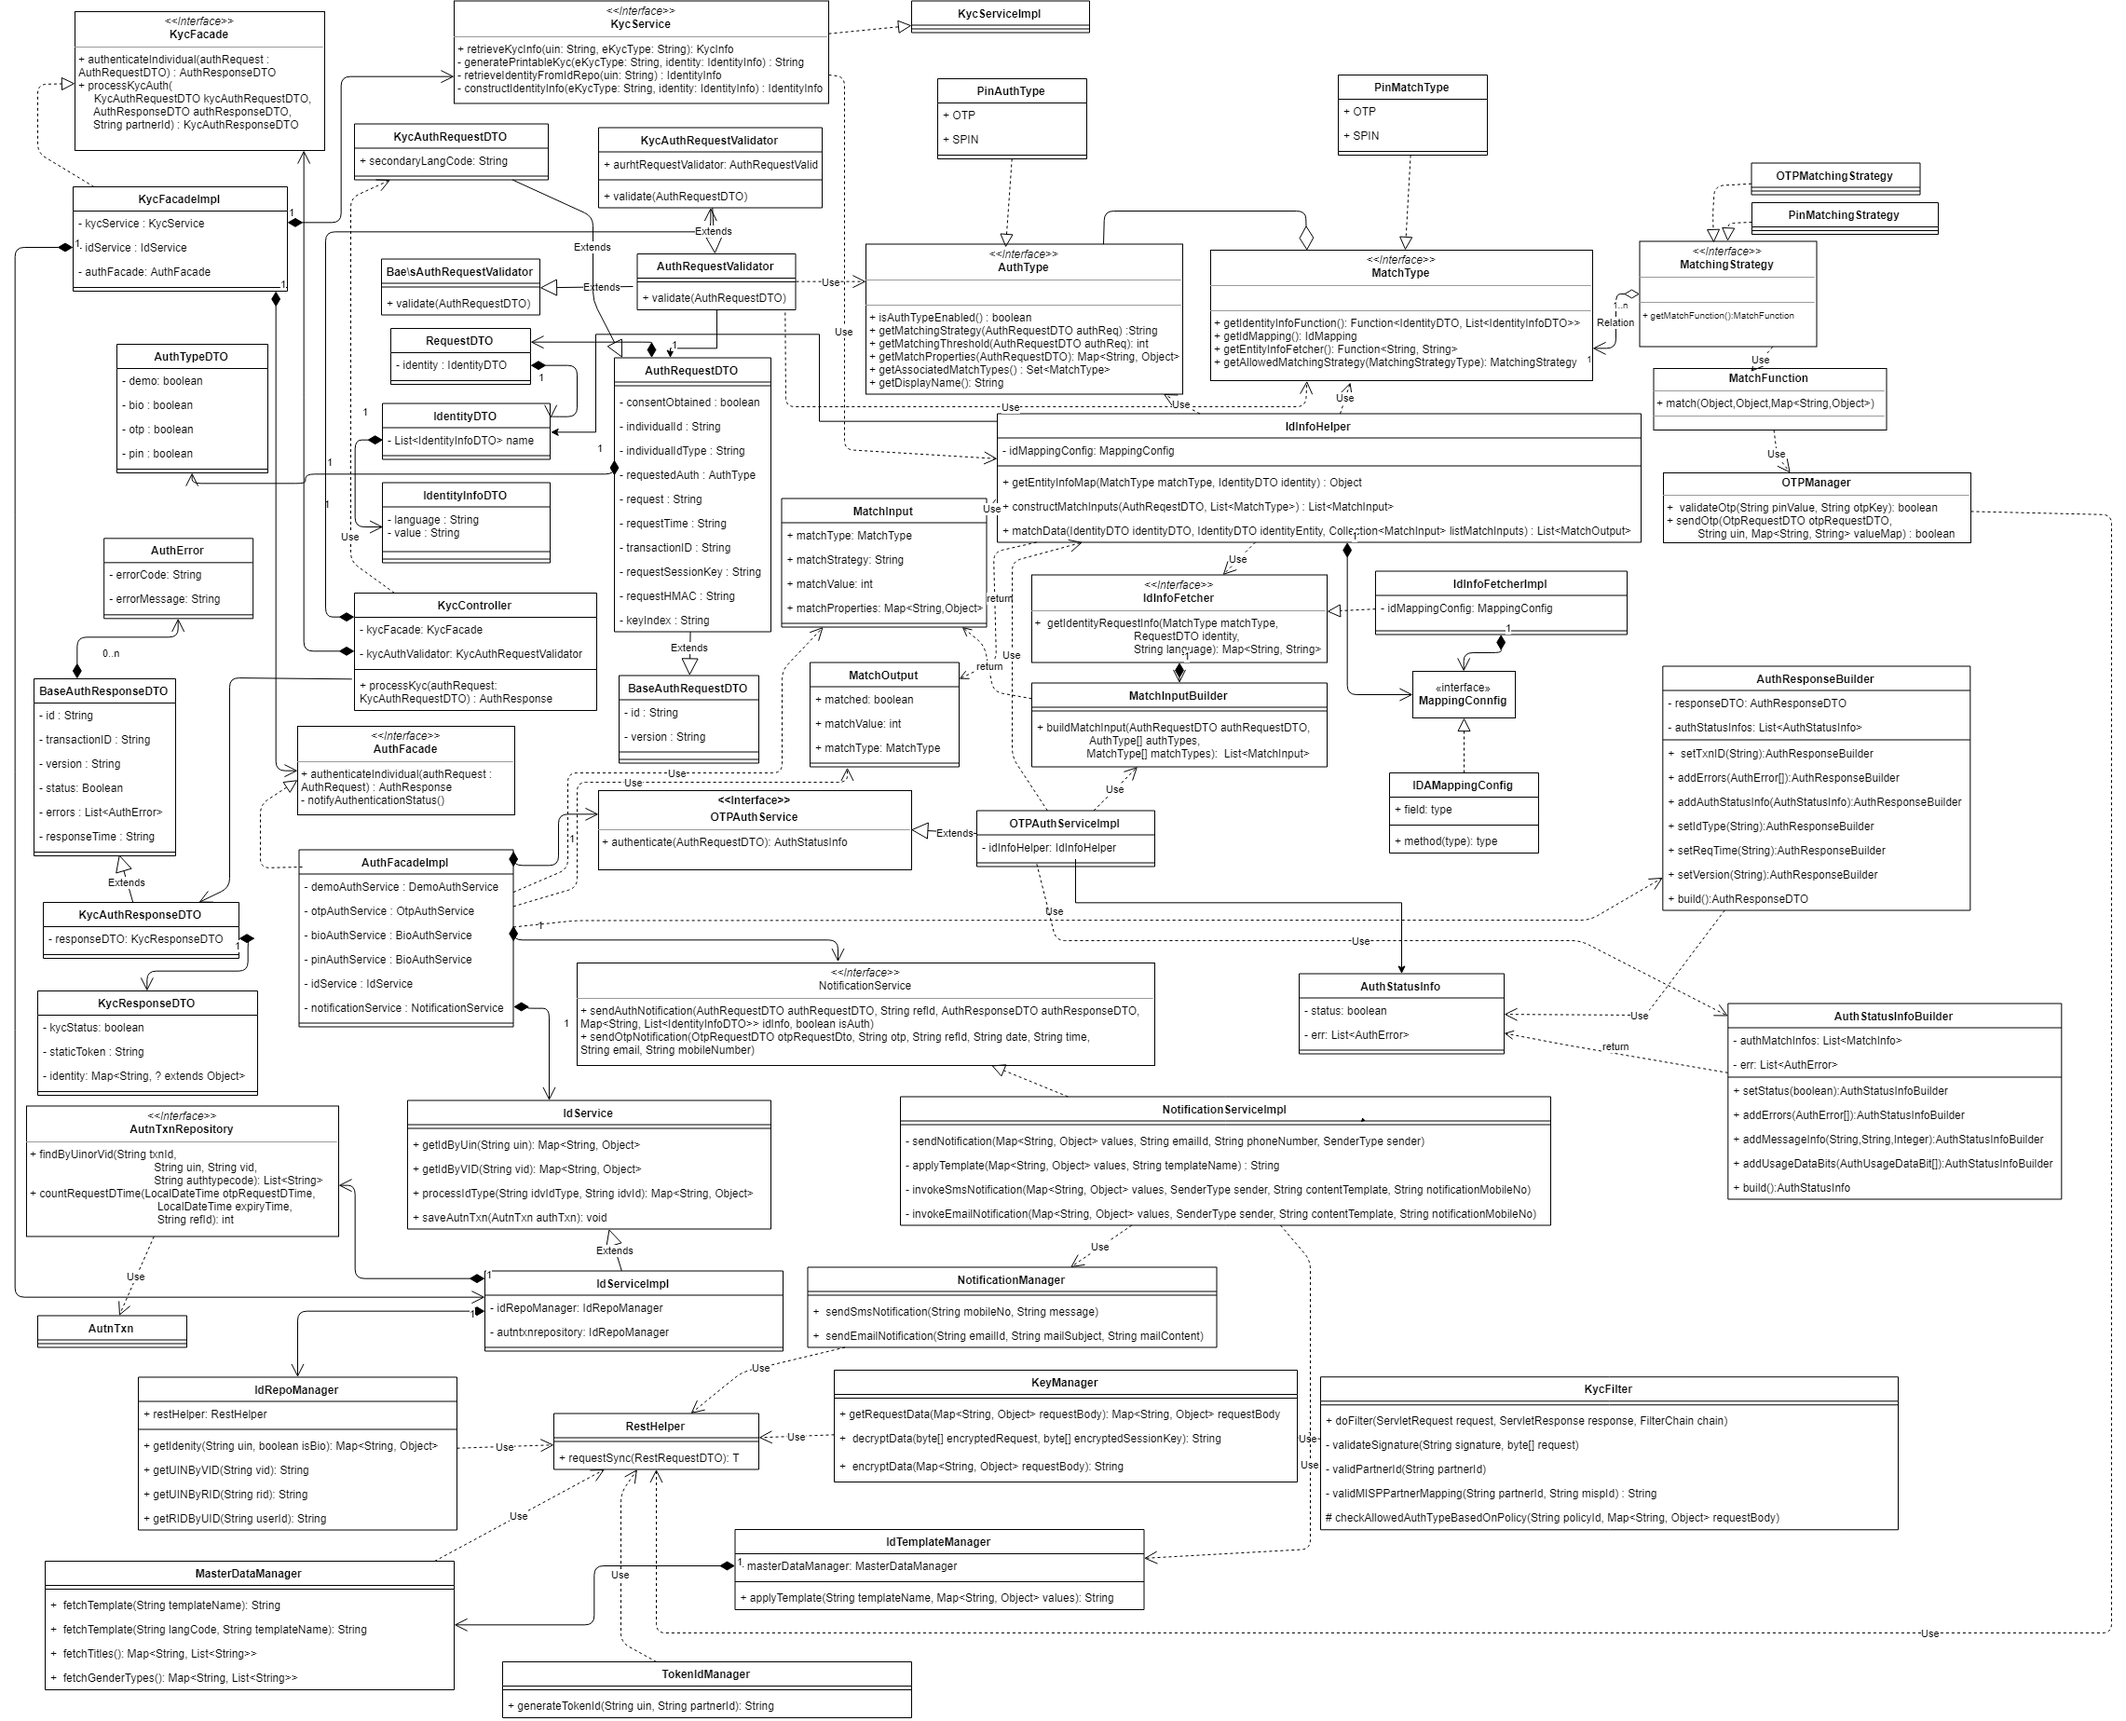
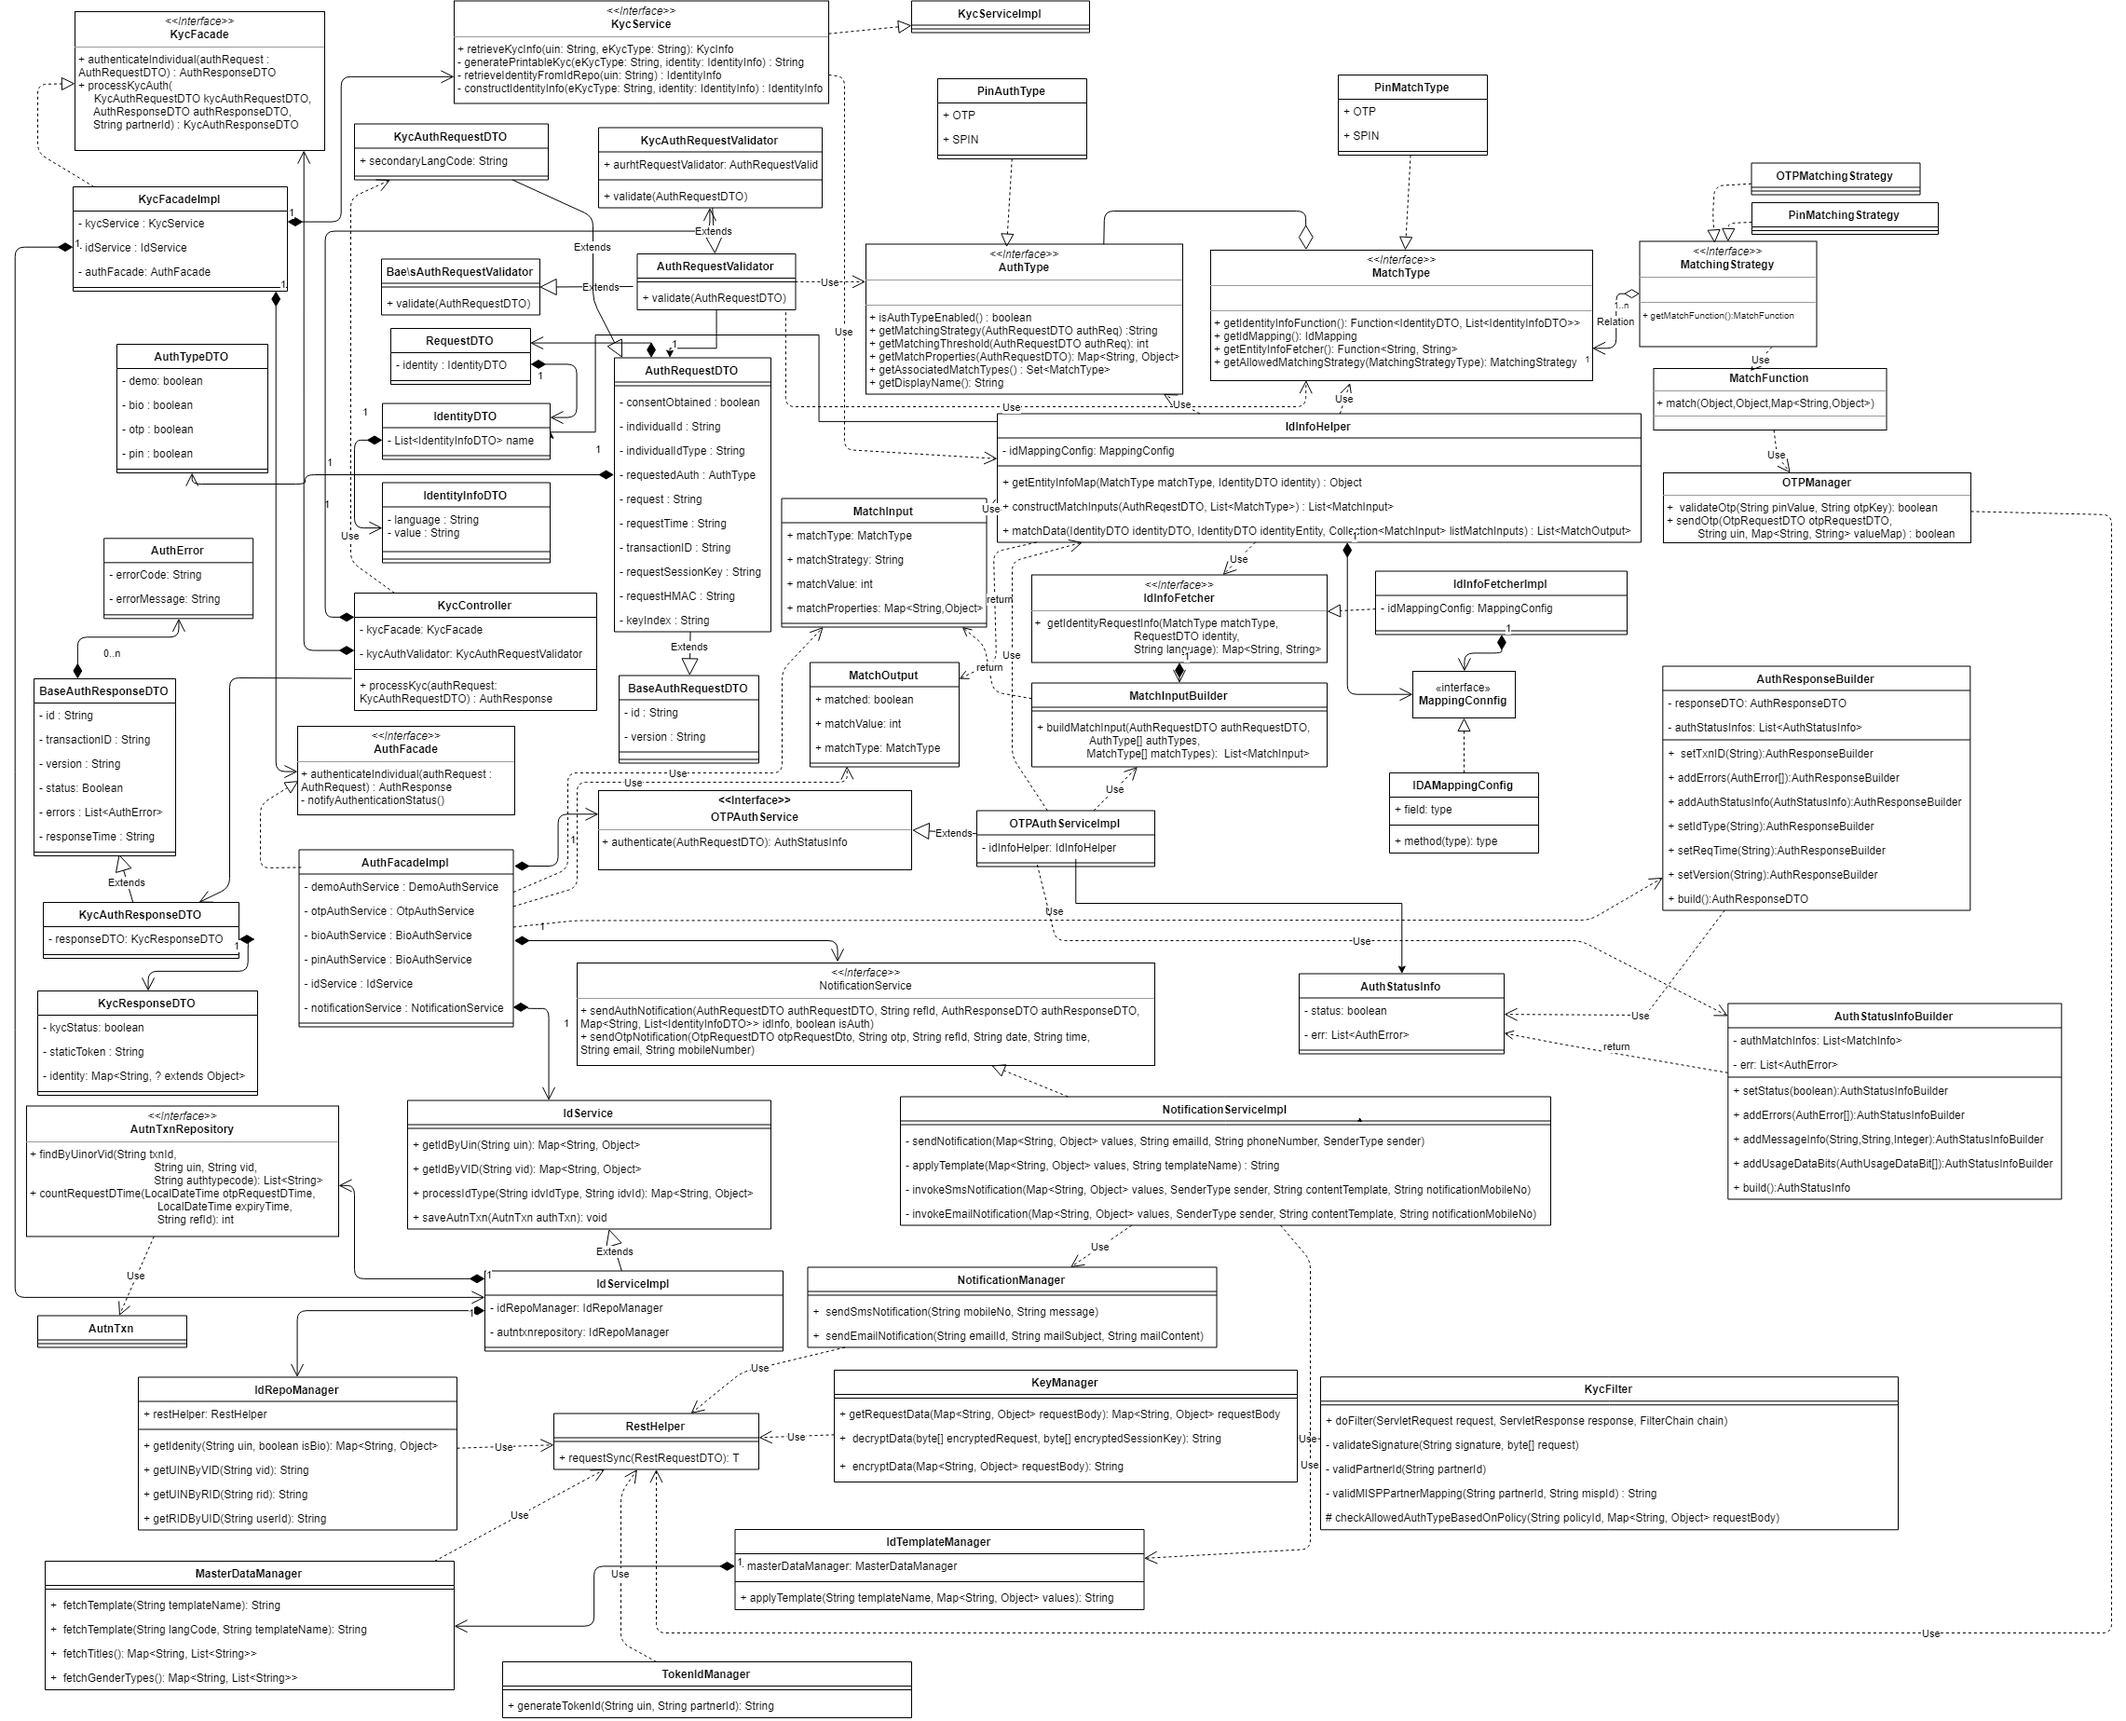
MOS-24581 Updated internal auth design diagrams.

diff --git a/docs/design/authentication/ID_Auth_Internal_REST_service.md b/docs/design/authentication/ID_Auth_Internal_REST_service.md
@@ -50,10 +50,10 @@ c.	Face – Image based
 **2.1. Class Diagram:**   
 The below class diagram shows relationship between all the classes which are required for Bio authentication service.
 
-![Bio Auth Class Diagram](_images/Bio_Auth_Class_Diagram.PNG)
+![Internal Auth Class Diagram](_images/Internal_Auth_Class_Diagram.PNG)
 
 **2.2. Sequence Diagram:**   
-![Bio Auth Sequence Diagram](_images/Bio_Auth_Sequence_Diagram.PNG)
+![Internal Auth Sequence Diagram](_images/Internal_Auth_Sequence_Diagram.PNG)
 
 **3. Proxy Implementations -**   
 Below are the proxy implementations used in ID-Authentication:
